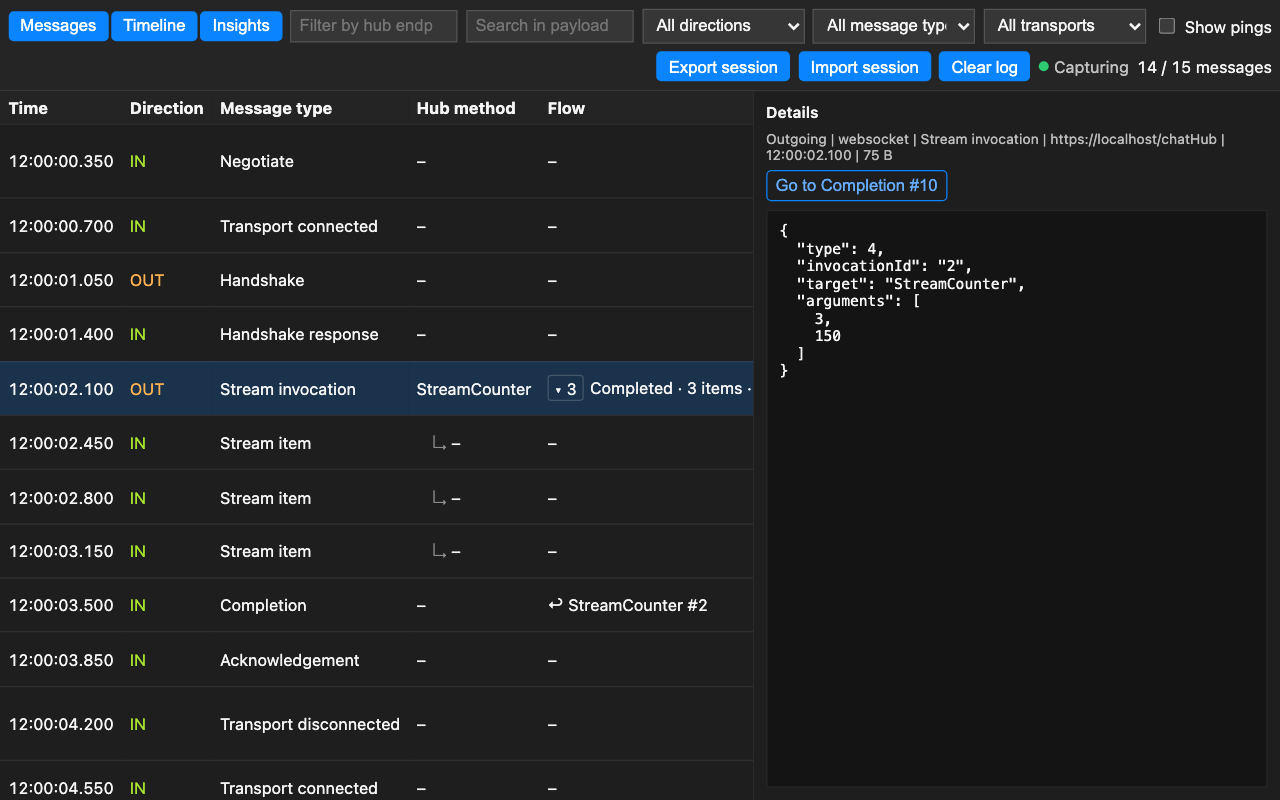
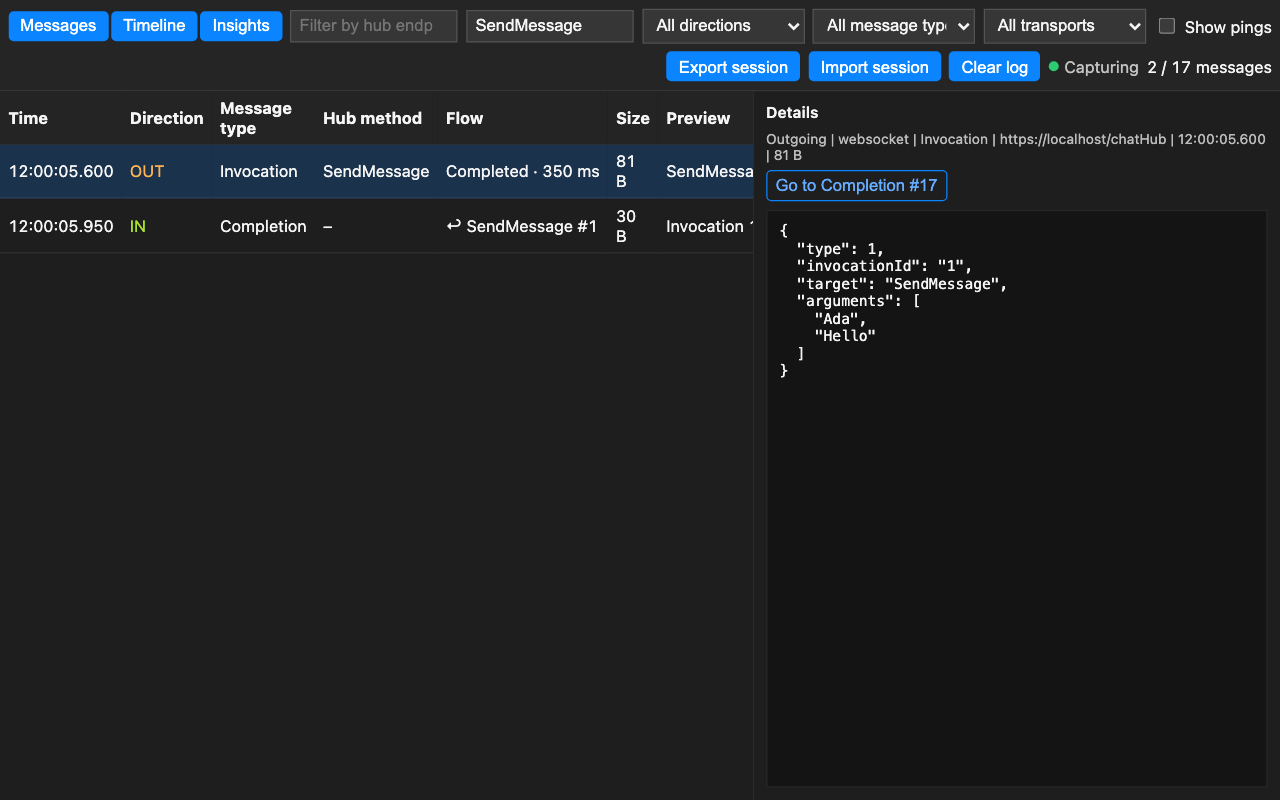
docs: align article screenshot with SendMessage example

diff --git a/CHANGELOG.md b/CHANGELOG.md
@@ -7,6 +7,14 @@ Version entries record changes committed to the extension package. A version is 
 distributed only after its own store submission or a tagged GitHub release; a changelog entry
 alone does not publish anything.
 
+## [1.1.3] - 2026-09-13
+
+### Changed
+
+- Refresh the opening Medium article screenshot around the article's `SendMessage` JSON example.
+  The deterministic capture now shows the invocation beside its Completion, the observed duration
+  in Flow, and the selected invocation payload without unrelated lifecycle rows.
+
 ## [1.1.2] - 2026-09-13
 
 ### Changed
